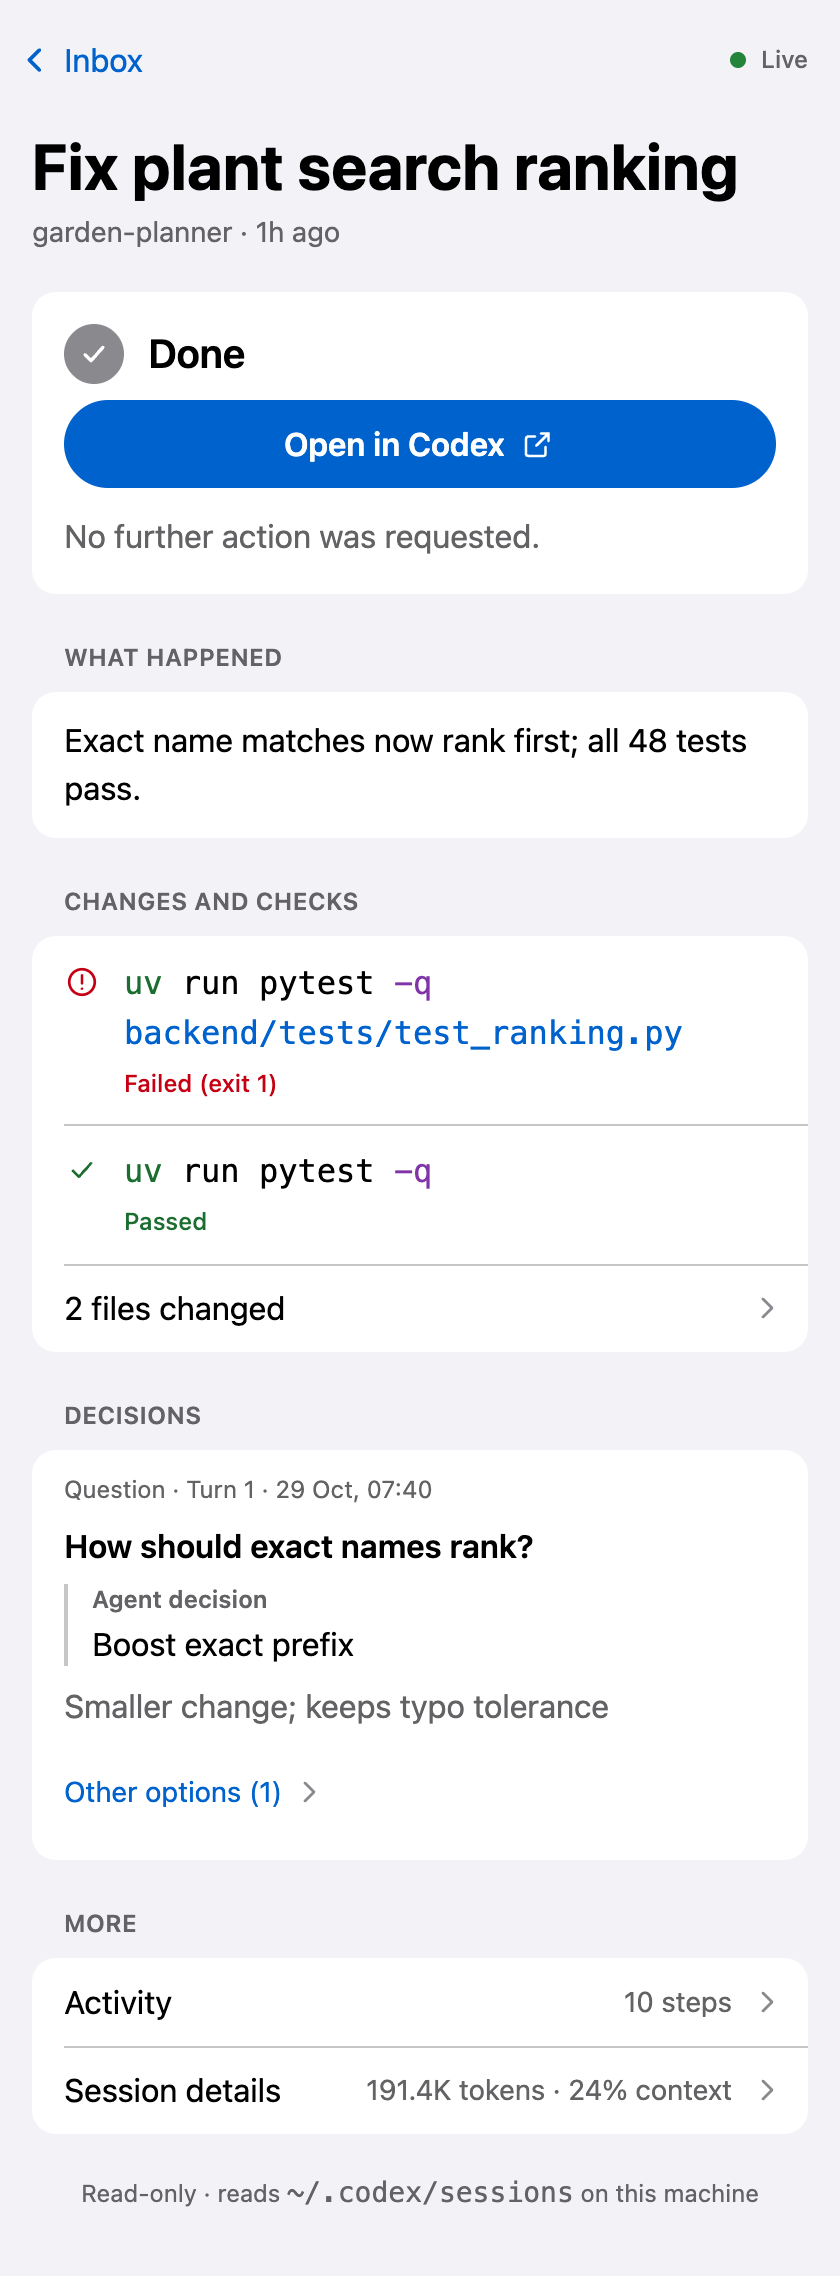
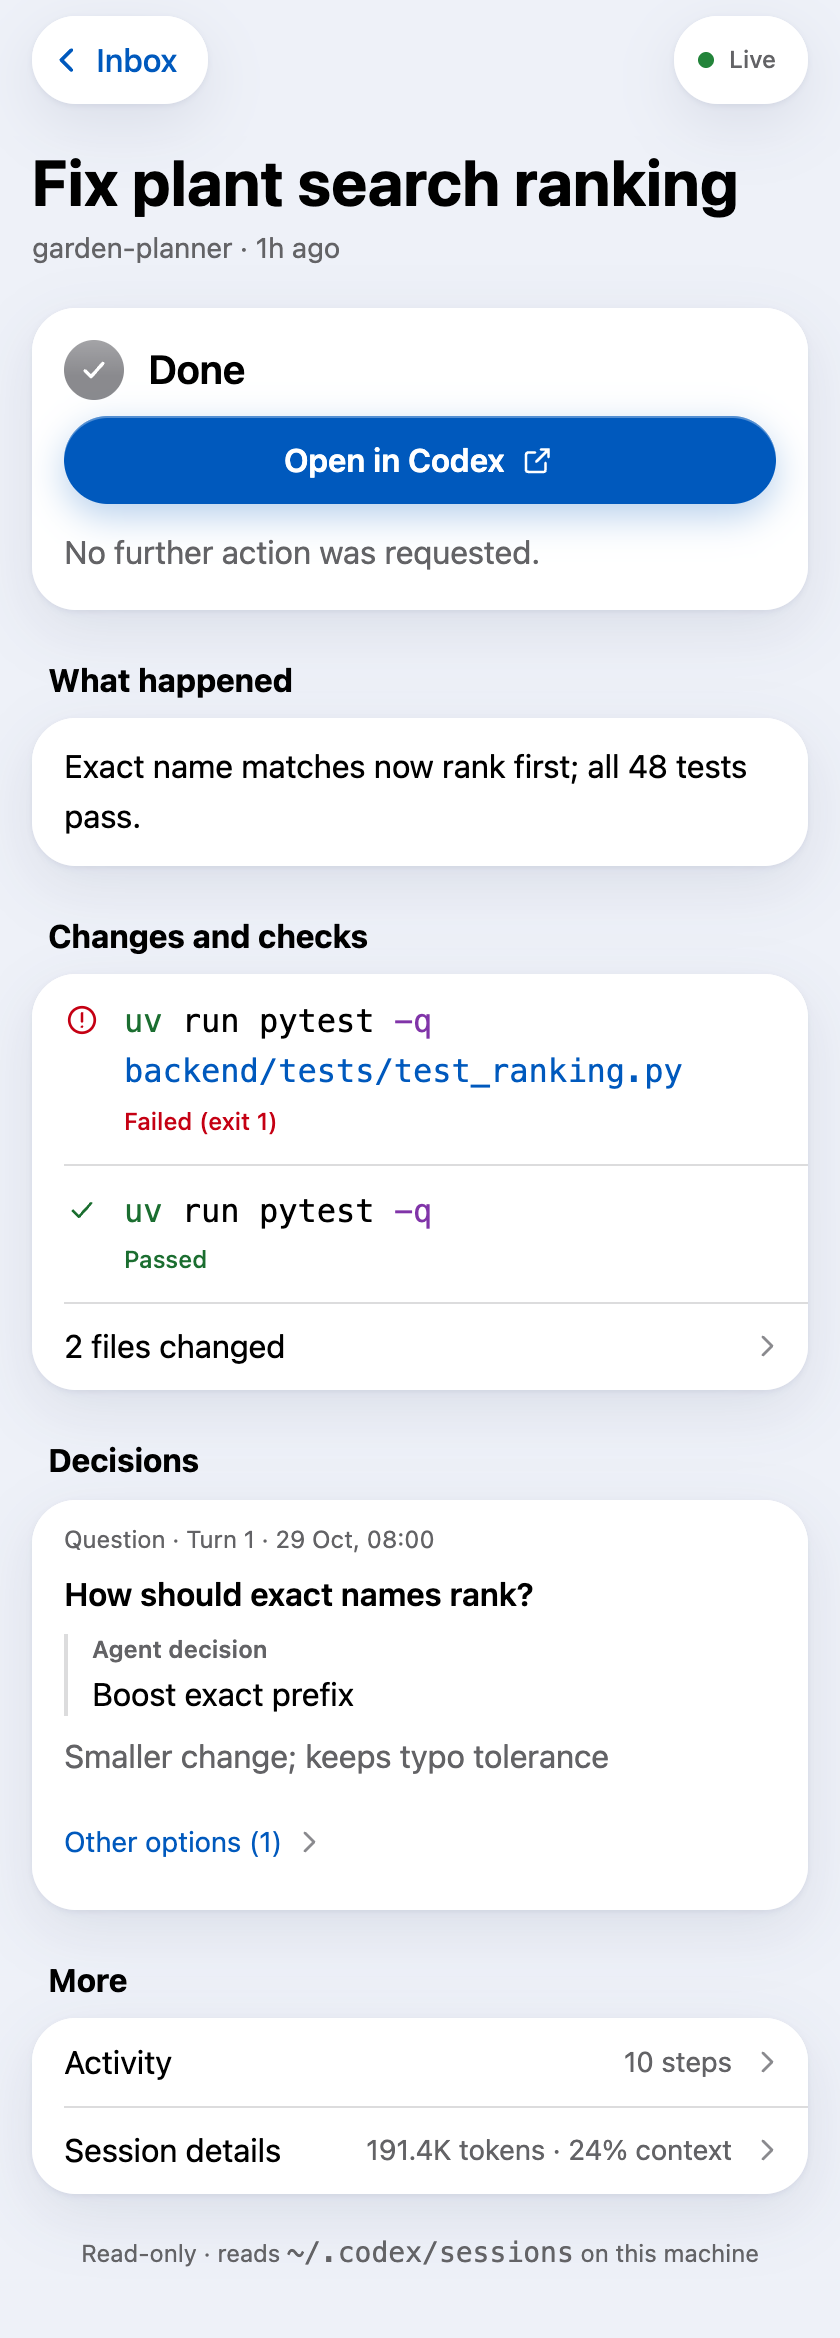
Refresh screenshots and record Liquid Glass verification

diff --git a/docs/verification.md b/docs/verification.md
@@ -169,3 +169,12 @@ Dated delivery checks for the [design contract](../DESIGN.md).
   showed one column capped at the reading width.
 - The list and chat page layouts at 320, 390, and 430px and 200% text were re-checked with no
   overflow or small targets. Safari, VoiceOver, and real multi-monitor setups were not checked.
+
+## Liquid Glass material on 2026-10-29
+
+- Text contrast was computed against glass composited over the darkest and lightest backdrop points
+  and with the pressed overlay: every text role is at least 4.5:1 in both appearances. The accent,
+  dark purple, and dark red were adjusted to reach that.
+- List and chat views at 320, 390, and 430px, 200% text, and the board at 900 and 1440px showed no
+  overflow or controls under 44px. With increased contrast emulated, cards rendered opaque with no
+  backdrop blur. Reduced transparency and WebKit rendering of backdrop-filter were not emulated.
